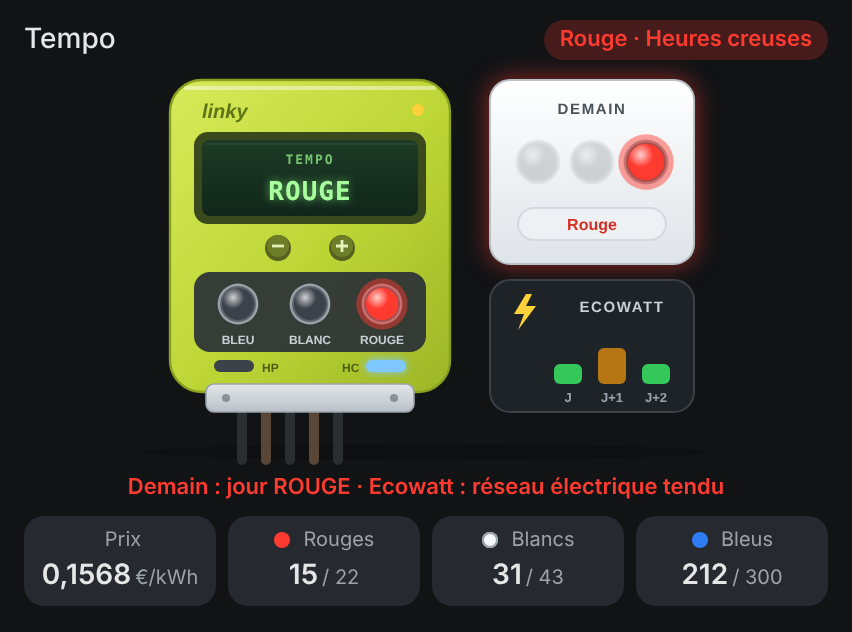
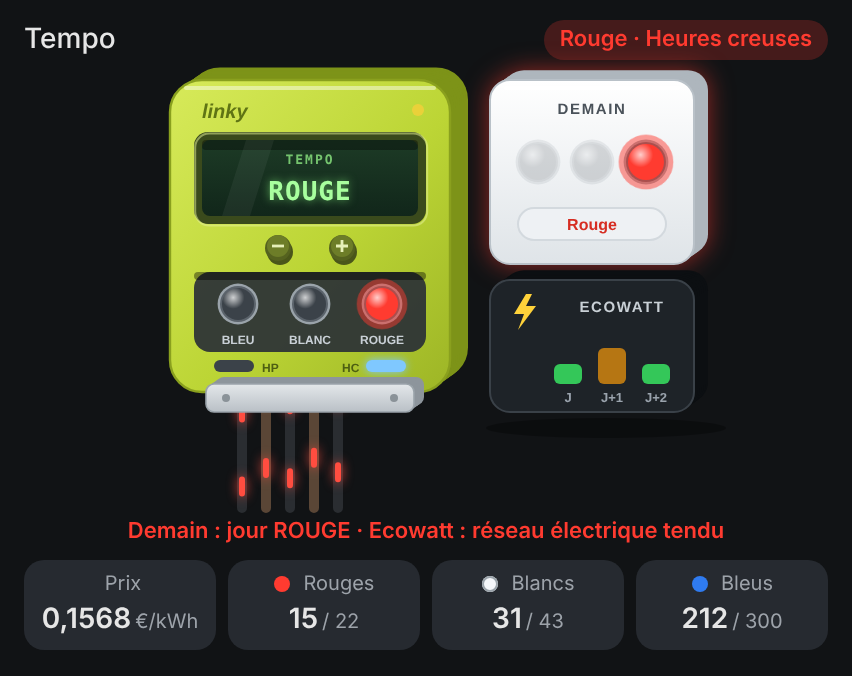
feat: give the meter and boxes depth, animate incoming electricity
Variant chosen by the maintainer: front view, devices extruded towards
the top right with a recessed LCD, raised buttons and cast shadows.
Light pulses run up the supply cables into the meter, in today's Tempo
colour, faster in peak hours than off-peak. README shows an animated
preview.

Claude-Session: https://claude.ai/code/session_01QpEf3WWxbTtBgwTnh4yXSN

Changed region(s): [[0.0305, 0.0301, 0.9765, 0.932], [0.0305, 0.0301, 0.1526, 0.0902]]

diff --git a/ha-tempo-card.js b/ha-tempo-card.js
@@ -86,11 +86,20 @@ svg{display:block;width:100%;max-width:300px;height:auto;margin:2px auto 0;overf
 .elab{font:600 6.5px/1 var(--paper-font-body1_-_font-family,Roboto,sans-serif);fill:#9aa3ad;text-anchor:middle}
 .noeco .ecog{display:none}
 @keyframes tpled{50%{opacity:.35}}
+/* électricité qui arrive : impulsions à la couleur du jour, plus rapides en heures pleines */
+.pulse{fill:none;stroke:var(--pulse,#ffd23a);stroke-width:3;stroke-linecap:round;stroke-dasharray:7 30;filter:drop-shadow(0 0 3px var(--pulse,#ffd23a));animation:tppulse .9s linear infinite}
+.hc .pulse{animation-duration:1.8s}
+@keyframes tppulse{from{stroke-dashoffset:37}to{stroke-dashoffset:0}}
+.spark{fill:var(--pulse,#ffd23a);opacity:0;filter:blur(4px);animation:tpspark .9s ease-out infinite}
+.spark{filter:blur(3px)}
+.hc .spark{animation-duration:1.8s}
+@keyframes tpspark{0%,60%{opacity:0}75%{opacity:.45}100%{opacity:0}}
+.d-blue{--pulse:#5ea2ff}.d-white{--pulse:#ffffff}.d-red{--pulse:#ff4d40}
 .noanim *{animation:none!important}
 `;
 
   const SVG = () => `
-<svg viewBox="0 0 300 200" role="img">
+<svg viewBox="0 0 300 222" role="img">
  <defs>
   <linearGradient id="tplinky" x1="0" y1="0" x2="1" y2="1"><stop offset="0" stop-color="#d7ea5a"/><stop offset=".55" stop-color="#bcd535"/><stop offset="1" stop-color="#9db526"/></linearGradient>
   <linearGradient id="tpcover" x1="0" y1="0" x2="0" y2="1"><stop offset="0" stop-color="#e3e7ea"/><stop offset="1" stop-color="#b9c0c6"/></linearGradient>
@@ -98,25 +107,27 @@ svg{display:block;width:100%;max-width:300px;height:auto;margin:2px auto 0;overf
   <linearGradient id="tplcd" x1="0" y1="0" x2="0" y2="1"><stop offset="0" stop-color="#1d3b26"/><stop offset="1" stop-color="#11261a"/></linearGradient>
   <radialGradient id="tpshine" cx=".35" cy=".3" r=".7"><stop offset="0" stop-color="#fff" stop-opacity=".75"/><stop offset=".5" stop-color="#fff" stop-opacity="0"/></radialGradient>
  </defs>
- <ellipse cx="150" cy="194" rx="140" ry="4" fill="#000" opacity=".2"/>
+ <ellipse cx="240" cy="182" rx="60" ry="5" fill="#000" opacity=".3"/>
  <!-- câbles d'arrivée -->
- <path d="M58 168 V198 M82 168 V198 M106 168 V198" stroke="#2a2d31" stroke-width="5" stroke-linecap="round"/>
- <path d="M70 168 V198 M94 168 V198" stroke="#5a4636" stroke-width="5" stroke-linecap="round"/>
- <!-- compteur Linky -->
+ <path d="M58 168 V222 M82 168 V222 M106 168 V222" stroke="#2a2d31" stroke-width="5" stroke-linecap="round"/>
+ <path d="M70 168 V222 M94 168 V222" stroke="#5a4636" stroke-width="5" stroke-linecap="round"/>
+ <path class="pulse" d="M58 223 V166" style="animation-delay:-0s"/><path class="pulse" d="M70 223 V166" style="animation-delay:-0.45s"/><path class="pulse" d="M82 223 V166" style="animation-delay:-0.2s"/><path class="pulse" d="M94 223 V166" style="animation-delay:-0.7s"/><path class="pulse" d="M106 223 V166" style="animation-delay:-0.35s"/>
+ <ellipse class="spark" cx="82" cy="170" rx="40" ry="6"/>
+ <rect x="31.0" y="1.7" width="140" height="156" rx="16" fill="#7d9318"/><rect x="30.0" y="2.4" width="140" height="156" rx="16" fill="#7d9318"/><rect x="29.0" y="3.1" width="140" height="156" rx="16" fill="#7d9318"/><rect x="28.0" y="3.8" width="140" height="156" rx="16" fill="#7d9318"/><rect x="27.0" y="4.5" width="140" height="156" rx="16" fill="#7d9318"/><rect x="26.0" y="5.2" width="140" height="156" rx="16" fill="#7d9318"/><rect x="25.0" y="5.9" width="140" height="156" rx="16" fill="#7d9318"/><rect x="24.0" y="6.6" width="140" height="156" rx="16" fill="#7d9318"/><rect x="23.0" y="7.3" width="140" height="156" rx="16" fill="#7d9318"/>
  <rect x="22" y="8" width="140" height="156" rx="16" fill="url(#tplinky)" stroke="#8aa01e" stroke-width="1.2"/>
  <path d="M30 12 H154" stroke="#fff" stroke-width="2" stroke-linecap="round" opacity=".45"/>
  <text x="38" y="27" style="font:italic 800 10px var(--paper-font-body1_-_font-family,Roboto,sans-serif);fill:#5f7414">linky</text>
  <circle class="conso" cx="146" cy="23" r="3"/>
  <!-- écran -->
- <rect x="34" y="34" width="116" height="46" rx="7" fill="#3a4a1c"/>
+ <rect x="34" y="34" width="116" height="46" rx="7" fill="#3a4a1c"/><rect x="34.6" y="34.8" width="116" height="46" rx="7" fill="none" stroke="#e8f39a" stroke-width="1" opacity=".5"/>
  <rect class="lcdbg" x="38" y="38" width="108" height="38" rx="4" fill="url(#tplcd)"/>
- <path d="M40 40 H144" stroke="#fff" stroke-width=".6" opacity=".12"/>
+ <rect x="38" y="38" width="108" height="5" rx="2" fill="#000" opacity=".35"/><path d="M48 76 L60 38 H74 L62 76 Z" fill="#fff" opacity=".05"/>
  <g id="tppages"></g>
  <!-- boutons -->
- <circle cx="76" cy="92" r="6.5" fill="#55621f"/><circle cx="76" cy="91" r="5.5" fill="#6d7d28"/><path d="M73 91 H79" stroke="#e6efb8" stroke-width="1.4"/>
- <circle cx="108" cy="92" r="6.5" fill="#55621f"/><circle cx="108" cy="91" r="5.5" fill="#6d7d28"/><path d="M105 91 H111 M108 88 V94" stroke="#e6efb8" stroke-width="1.4"/>
+ <circle cx="77" cy="94" r="6.5" fill="#4a561a"/><circle cx="76" cy="92" r="6.5" fill="#55621f"/><circle cx="76" cy="91" r="5.5" fill="#6d7d28"/><path d="M73 91 H79" stroke="#e6efb8" stroke-width="1.4"/>
+ <circle cx="109" cy="94" r="6.5" fill="#4a561a"/><circle cx="108" cy="92" r="6.5" fill="#55621f"/><circle cx="108" cy="91" r="5.5" fill="#6d7d28"/><path d="M105 91 H111 M108 88 V94" stroke="#e6efb8" stroke-width="1.4"/>
  <!-- voyants Tempo du jour -->
- <rect x="34" y="104" width="116" height="40" rx="8" fill="#2a3036" opacity=".92"/>
+ <rect x="34" y="104" width="116" height="40" rx="8" fill="#2a3036" opacity=".92"/><rect x="34" y="104" width="116" height="4" rx="2" fill="#000" opacity=".4"/>
  <g id="tplamps"></g>
  <g style="font:600 6px var(--paper-font-body1_-_font-family,Roboto,sans-serif);text-anchor:middle;fill:#c9d0d6">
   <text x="56" y="140">BLEU</text><text x="92" y="140">BLANC</text><text x="128" y="140">ROUGE</text></g>
@@ -124,10 +135,11 @@ svg{display:block;width:100%;max-width:300px;height:auto;margin:2px auto 0;overf
  <rect class="hpl p" x="44" y="148" width="20" height="6" rx="3"/><rect class="hpl c" x="120" y="148" width="20" height="6" rx="3"/>
  <g style="font:700 6px var(--paper-font-body1_-_font-family,Roboto,sans-serif);fill:#4d5f12"><text x="68" y="154">HP</text><text x="108" y="154">HC</text></g>
  <!-- cache-bornes -->
- <rect x="40" y="160" width="104" height="14" rx="4" fill="url(#tpcover)" stroke="#9aa3aa" stroke-width=".8"/>
+ <rect x="45.0" y="156.5" width="104" height="14" rx="4" fill="#8d959c"/><rect x="44.0" y="157.2" width="104" height="14" rx="4" fill="#8d959c"/><rect x="43.0" y="157.9" width="104" height="14" rx="4" fill="#8d959c"/><rect x="42.0" y="158.6" width="104" height="14" rx="4" fill="#8d959c"/><rect x="41.0" y="159.3" width="104" height="14" rx="4" fill="#8d959c"/><rect x="40" y="160" width="104" height="14" rx="4" fill="url(#tpcover)" stroke="#9aa3aa" stroke-width=".8"/>
  <circle cx="50" cy="167" r="2" fill="#8a9298"/><circle cx="134" cy="167" r="2" fill="#8a9298"/>
  <!-- boîtier de voyants « demain » -->
  <g class="tbox">
+  <rect x="189.0" y="3.1" width="102" height="92" rx="10" fill="#aeb6bd"/><rect x="188.0" y="3.8" width="102" height="92" rx="10" fill="#aeb6bd"/><rect x="187.0" y="4.5" width="102" height="92" rx="10" fill="#aeb6bd"/><rect x="186.0" y="5.2" width="102" height="92" rx="10" fill="#aeb6bd"/><rect x="185.0" y="5.9" width="102" height="92" rx="10" fill="#aeb6bd"/><rect x="184.0" y="6.6" width="102" height="92" rx="10" fill="#aeb6bd"/><rect x="183.0" y="7.3" width="102" height="92" rx="10" fill="#aeb6bd"/>
   <rect x="182" y="8" width="102" height="92" rx="10" fill="url(#tpbox)" stroke="#b9c1c8"/>
   <path d="M190 12 H276" stroke="#fff" stroke-width="2" stroke-linecap="round"/>
   <text class="ttxt" id="tptitle2" x="233" y="25">DEMAIN</text>
@@ -137,6 +149,7 @@ svg{display:block;width:100%;max-width:300px;height:auto;margin:2px auto 0;overf
  </g>
  <!-- Ecowatt -->
  <g class="ecog">
+  <rect x="189.0" y="103.1" width="102" height="66" rx="10" fill="#0c0f12"/><rect x="188.0" y="103.8" width="102" height="66" rx="10" fill="#0c0f12"/><rect x="187.0" y="104.5" width="102" height="66" rx="10" fill="#0c0f12"/><rect x="186.0" y="105.2" width="102" height="66" rx="10" fill="#0c0f12"/><rect x="185.0" y="105.9" width="102" height="66" rx="10" fill="#0c0f12"/><rect x="184.0" y="106.6" width="102" height="66" rx="10" fill="#0c0f12"/><rect x="183.0" y="107.3" width="102" height="66" rx="10" fill="#0c0f12"/>
   <rect x="182" y="108" width="102" height="66" rx="10" fill="#1e2328" stroke="#3a4148"/>
   <path d="M200 115 l-6 10 h5 l-3 8 l9 -12 h-5 l3 -6 z" fill="#ffd23a"/>
   <text x="248" y="124" style="font:700 7.5px var(--paper-font-body1_-_font-family,Roboto,sans-serif);fill:#c9d0d6;text-anchor:middle;letter-spacing:.8px">ECOWATT</text>
@@ -252,7 +265,7 @@ svg{display:block;width:100%;max-width:300px;height:auto;margin:2px auto 0;overf
       const eco = [c.entity_ecowatt_today, c.entity_ecowatt_tomorrow, c.entity_ecowatt_day2].map((id) => (id ? this._eco(id) : undefined));
       const hasEco = c.show_ecowatt !== false && eco.some((x) => x !== undefined);
       card.className = `d-${today} t-${tmr} ${hc ? 'hc' : 'hp'}${hasEco ? '' : ' noeco'} ${c.animations === false ? 'noanim' : ''}`;
-      r.querySelector('svg').setAttribute('viewBox', hasEco ? '0 0 300 200' : '0 0 300 200');
+      r.querySelector('svg').setAttribute('viewBox', '0 0 300 222');
 
       r.getElementById('tptitle').textContent = c.name || this._t('name');
       const badge = r.getElementById('tpbadge');

diff --git a/README.md b/README.md
@@ -6,15 +6,16 @@
 Carte Lovelace **animée** pour l'offre **Tempo d'EDF** et le signal **Ecowatt de RTE** : la couleur du jour, celle du lendemain, les heures creuses, les jours restants de la saison et la tension du réseau, d'un seul coup d'œil.
 
 <p align="center">
+  <img src="docs/images/tempo-anime.gif" width="400" alt="Carte Tempo animée : jour rouge, demain rouge">
   <img src="docs/images/tempo-blanc-hp.png" width="400" alt="Jour blanc, heures pleines">
-  <img src="docs/images/tempo-rouge-hc.png" width="400" alt="Jour rouge, heures creuses, demain rouge">
 </p>
 
 **▶ [Essayer la démo](https://skyrotter.github.io/ha-tempo-card/docs/demo.html)** (données simulées, sans Home Assistant)
 
 ## Ce que montre la carte
 
-- **Un compteur Linky** dont l'écran fait défiler, comme le vrai, la couleur du jour, la période (HP / HC, avec le prix si tu as renseigné tes tarifs), la couleur du lendemain et les jours rouges restants. Ses trois **voyants Tempo** sont éteints sauf celui du jour, qui brille (et pulse plus vite un jour rouge). Voyants **HP / HC** et LED de consommation qui clignote.
+- **L'électricité qui arrive** : des impulsions lumineuses remontent les câbles jusqu'au compteur, à la couleur du jour, plus vite en heures pleines qu'en heures creuses.
+- **Un compteur Linky** en relief dont l'écran fait défiler, comme le vrai, la couleur du jour, la période (HP / HC, avec le prix si tu as renseigné tes tarifs), la couleur du lendemain et les jours rouges restants. Ses trois **voyants Tempo** sont éteints sauf celui du jour, qui brille (et pulse plus vite un jour rouge). Voyants **HP / HC** et LED de consommation qui clignote.
 - **Un boîtier « Demain »** : ses trois lampes font un **chenillard** tant que RTE n'a pas publié la couleur, puis la lampe du lendemain **s'allume** quand elle tombe (vers 11 h). Le boîtier s'entoure de rouge si demain est un jour rouge.
 - **Ecowatt** : trois barres J, J+1, J+2 (vert, orange, rouge) qui clignotent quand le réseau est tendu.
 - **Alertes** : « Demain : jour ROUGE », « Jour rouge en heures pleines », « Ecowatt : réseau électrique tendu ».
